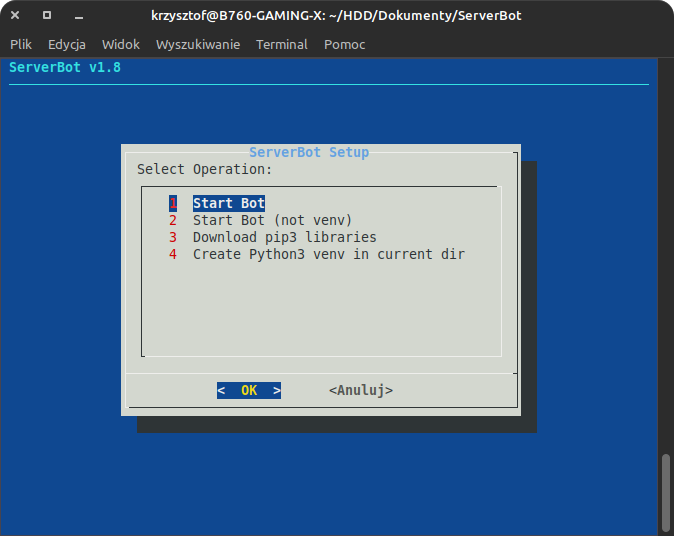
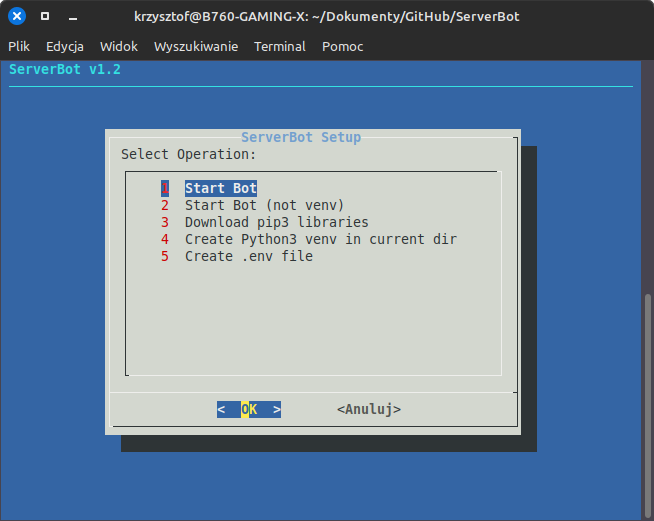
Updated to v1.2

diff --git a/manual.html b/manual.html
@@ -1,11 +1,11 @@
 <!DOCTYPE html>
-<html lang="pl">
+<html lang="pl-PL">
 <head>
     <meta charset="UTF-8">
     <meta name="viewport" content="width=device-width, initial-scale=1.0">
     <title>ServerBot - Manual</title>
     <link rel="icon" type="image/x-icon" href="Files/favicon.ico">
-    <meta name="description" content="ServerBot 1.1 user Manual [PL]">
+    <meta name="description" content="ServerBot 1.2 user Manual [PL]">
     <meta name="author" content="Kamile320">
 
     <style>
@@ -96,7 +96,7 @@
         <br>
 
         <p align="right">Zdj.1 - Uruchomienie skryptu</p>
-        <img align="right" src="Files/UbuntuSB.png" width="50%" height="50%">
+        <img align="right" src="Files/UbuntuSB.png" width="40%" height="40%">
         
         <h3 id="start">Pierwsze uruchomienie:</h3>
         <h5>Bot do uruchomienia wymaga:</h5>
@@ -152,7 +152,7 @@
         <p>Pełna dokuntacja <a href="https://packaging.python.org/en/latest/guides/installing-using-pip-and-virtual-environments/">tutaj</a></p>
 
         <p align="right">Zdj. 2 - opcje setup.sh</p>
-        <img align="right" src="Files/setupSB.png" width="40%" height="40%">
+        <img align="right" src="Files/setupSB.png" width="35%" height="35%">
 
         <h3 id="token">Tokeny</h3>
         Bot korzysta z tokenów: Discorda API, ApenAI oraz z ID użytkowników.<br>

diff --git a/manualEN.html b/manualEN.html
@@ -1,11 +1,11 @@
 <!DOCTYPE html>
-<html lang="en">
+<html lang="en-EN">
 <head>
     <meta charset="UTF-8">
     <meta name="viewport" content="width=device-width, initial-scale=1.0">
     <title>ServerBot - Manual</title>
     <link rel="icon" type="image/x-icon" href="Files/favicon.ico">
-    <meta name="description" content="ServerBot 1.1 user Manual [EN]">
+    <meta name="description" content="ServerBot 1.2 user Manual [EN]">
     <meta name="author" content="Kamile320">
 
     <style>
@@ -96,7 +96,7 @@
         <br>
 
         <p align="right">Pic. 1 - Running the script</p>
-        <img align="right" src="Files/UbuntuSB.png" width="50%" height="50%">
+        <img align="right" src="Files/UbuntuSB.png" width="40%" height="40%">
         
         <h3 id="start">First run:</h3>
         <h5>The Bot requires:</h5>
@@ -152,7 +152,7 @@
         <p>Full documentation of venv <a href="https://packaging.python.org/en/latest/guides/installing-using-pip-and-virtual-environments/">here</a></p>
 
         <p align="right">Pic. 2 - setup.sh options</p>
-        <img align="right" src="Files/setupSB.png" width="50%" height="50%">
+        <img align="right" src="Files/setupSB.png" width="35%" height="35%">
 
         <h3 id="token">Tokens</h3>
         The bot uses tokens: Discord API, ApenAI and user IDs.<br>

diff --git a/ServerBot.py b/ServerBot.py
@@ -42,7 +42,7 @@ intents = discord.Intents.default()
 intents.message_content = True
 status = ['Windows 98 SE', 'DSaF:DLI', 'Minesweeper', f'{platform.system()} {platform.release()}', 'system32', 'Fallout 2', 'Windows Vista', 'MS-DOS', 'Team Fortress 2', 'Discord Moderator Simulator', 'Arch Linux']
 choice = random.choice(status)
-ver = "1.1.1"
+ver = "1.2"
 client = commands.Bot(command_prefix='.', intents=intents, activity=discord.Game(name=choice))
 
 
@@ -186,6 +186,13 @@ async def gpt(ctx, *, question):
 @client.command(name='GNU+Linux', help='Richard Stallman.')
 async def gnu(ctx):
     await ctx.send("I’d just like to interject for a moment. What you’re refering to as Linux, is in fact, GNU/Linux, or as I’ve recently taken to calling it, GNU plus Linux. Linux is not an operating system unto itself, but rather another free component of a fully functioning GNU system made useful by the GNU corelibs, shell utilities and vital system components comprising a full OS as defined by POSIX.  Many computer users run a modified version of the GNU system every day, without realizing it. Through a peculiar turn of events, the version of GNU which is widely used today is often called Linux, and many of its users are not aware that it is basically the GNU system, developed by the GNU Project.  There really is a Linux, and these people are using it, but it is just a part of the system they use. Linux is the kernel: the program in the system that allocates the machine’s resources to the other programs that you run. The kernel is an essential part of an operating system, but useless by itself; it can only function in the context of a complete operating system. Linux is normally used in combination with the GNU operating system: the whole system is basically GNU with Linux added, or GNU/Linux. All the so-called Linux distributions are really distributions of GNU/Linux!")
+
+#9
+@client.command(name='badge')
+async def badge(ctx, member: discord.Member):
+    user_flags = member.public_flags.all()
+    badges = [flag.name for flag in user_flags]
+    await ctx.send(f'{member.display_name} has the following badges: {", ".join(badges)}')
         #Random/Fun-END
 
 
@@ -229,15 +236,6 @@ async def time(ctx):
 @client.command(name='ping', help='Pings the Bot')
 async def ping(ctx):
     await ctx.send(f':tennis: Pong! ({round(client.latency * 1000)}ms)')
-
-#5
-@client.command(name='pingip', help='Pings selected IPv4 address.')
-async def pingip(ctx, ip):
-    try:
-        ipaddr = ip
-        await ctx.send(f"```{subprocess.getoutput([f'ping {ipaddr} -c 1'])}```")
-    except:
-        await ctx.send('Something went wrong')
         #BotInfo-END
 
 
@@ -249,9 +247,12 @@ async def newest_update(ctx):
     await ctx.send(f"""
 [ServerBot Ver. {ver}]
     Changelog:
-- fixed .kick .ban
-- '.unban' doesn't work
-- updated '.service' command
+- added '.badge' command
+- updated '.convert' '.testbot' commands
+- small code improvements
+- updated 'setup.sh' 'setuplib.sh'
+- updated HTML manuals
+- updated pictures in HTML manuals
 
 To see older releases, find 'updates.txt' in folder 'Files' 
 """)
@@ -271,8 +272,7 @@ async def issues(ctx):
 **Known Issues:**
 **1.** '.unban' command doesn't work.
     **Why:** Can't find banned user
-    **How Fixed:** Waits for fix.
-""")
+    **How Fixed:** Waits for fix.""")
         #UpdateInfo-END
 
 
@@ -561,8 +561,8 @@ OS Test (MacOS): **{psutil.MACOS}**
 OS Test (Linux): **{psutil.LINUX}**
 OS Version: **{platform.version()}**
 OS Kernel: **{platform.system()} {platform.release()}**
-Bot Localization: **{os.getcwd()}**
-Localization of Bot files: **{maindir}**
+Bot Current Dir: **{os.getcwd()}**
+Bot Main Dir: **{maindir}**
 File size: **{os.path.getsize(f'{maindir}/ServerBot.py')}**
 Floppy: **{os.path.exists('/dev/fd0')}**
 ====================================================""")
@@ -625,7 +625,7 @@ async def hexadecimal(ctx, number):
     logs.close()
 
 #8
-@client.command(name='convert', help='Advanced Converter\n\nConverts one number to other number systems - binary, octal, decimal, hexa (hexadecimal)')
+@client.command(name='convert', help='Advanced Converter v1.0\n========================\n\nConverts one number to other number systems - binary, octal, decimal, hexa (hexadecimal)')
 async def multiconv(ctx, type, number):
     try:
         if type == 'decimal':
@@ -694,6 +694,15 @@ async def webreq(ctx, *, web):
         await ctx.send(f"Response: {rq}")
     except:
         await ctx.send("Something went wrong.\nHave you typed the correct address?\n..Or maybe the website just doesn't exist? ")
+
+#11
+@client.command(name='pingip', help='Pings selected IPv4 address.')
+async def pingip(ctx, ip):
+    try:
+        ipaddr = ip
+        await ctx.send(f"```{subprocess.getoutput([f'ping {ipaddr} -c 1'])}```")
+    except:
+        await ctx.send('Something went wrong')
         #Utility_and_Diagnostics-END
 
 
@@ -831,7 +840,7 @@ async def dir(ctx, *, mode):
     elif mode == 'check':#
         await ctx.send(f'You are here: {os.getcwd()}')
 
-    elif mode == 'list':
+    elif mode == 'list':#
         listdir = os.listdir()
         await ctx.send(f'Files in this directory:\n{listdir}')
 
@@ -903,6 +912,7 @@ async def yt(ctx, YTname):
         #YouTubeLinks-END
 
 
+
         #Links_and_Servers
 #1
 @client.command(name='mcservs', help='Shows Addresses to Minecraft Servers\nYou need to enter your own addresses')
@@ -945,6 +955,7 @@ async def addbot(ctx, version):
         #Links_and_Servers-END
 
 
+
         #FileSending
 #1
 @client.command(name='Teensie', help='TeensieGif')
@@ -954,6 +965,7 @@ async def Teensie(ctx):
     except:
         await ctx.send('https://media.discordapp.net/attachments/1099605026948780143/1099605179193622570/Teensien.gif')
         #FileSending-END
+
 
 
         #Test_Commands
@@ -969,6 +981,7 @@ async def test(ctx):
 #        await ctx.send('@everyone')
 #
         #Test_Commands-END
+
 
 
 ################################################ S L A S H   C O M M A N D S ###########################################################################################
@@ -1001,8 +1014,8 @@ OS Test (MacOS): **{psutil.MACOS}**
 OS Test (Linux): **{psutil.LINUX}**
 OS Version: **{platform.version()}**
 OS Kernel: **{platform.system()} {platform.release()}**
-Bot Localization: **{os.getcwd()}**
-Localization of Bot files: **{maindir}**
+Bot Current Dir: **{os.getcwd()}**
+Bot Main Dir: **{maindir}**
 File size: **{os.path.getsize(f'{maindir}/ServerBot.py')}**
 Floppy: **{os.path.exists('/dev/fd0')}**
 ====================================================""")
